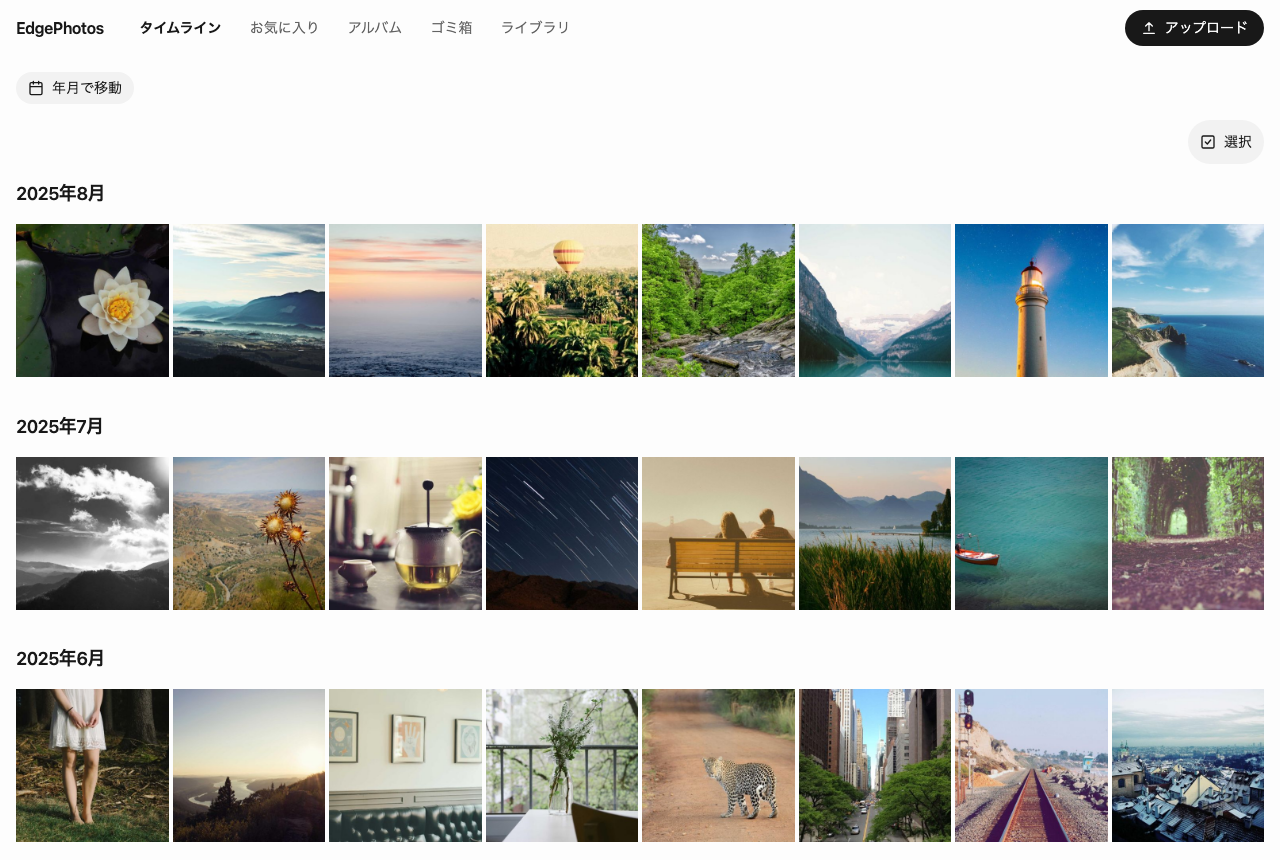
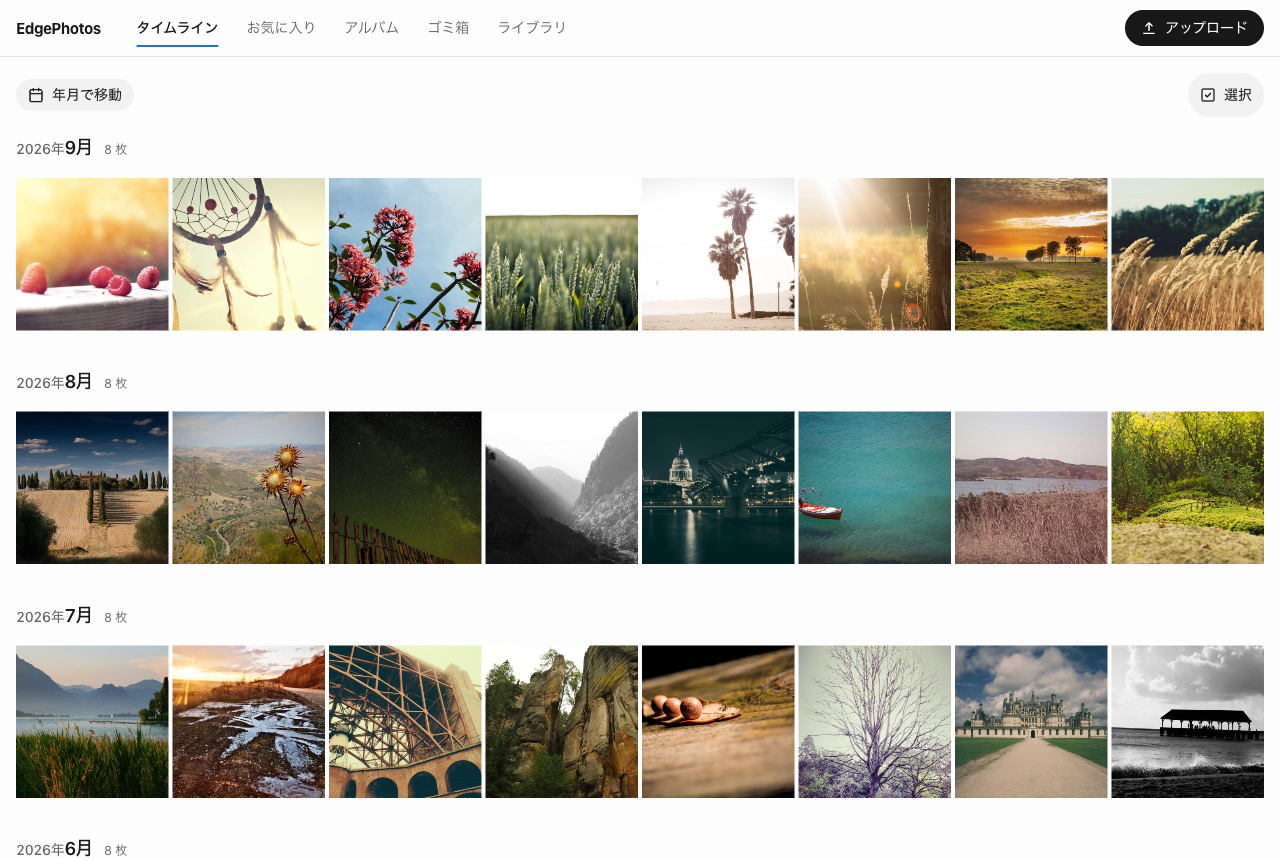
README の timeline 画像を画面の型の統一の後で撮り直す (#39)
Claude-Session: https://claude.ai/code/session_018M2aZQHtPdDHebDu5nKT86

diff --git a/docs/images/README.md b/docs/images/README.md
@@ -2,6 +2,6 @@
 
 README で使う画面画像の出どころです。
 
-`timeline.png` は、ローカル開発環境（`vite dev`、Access と presigned URL は模擬）へ 32 枚を取り込んで撮ったものです。写っているのは [Lorem Picsum](https://picsum.photos/) が Unsplash の写真として配信しているもので、実在の家族写真ではありません。人物が特定できる写真は選んでいません。
+`timeline.png` は、ローカル開発環境（`vite dev`、Access と presigned URL は模擬）の使い捨ての library へ 32 枚を取り込み、1280×860 で撮ったものです（2026-09-23、[画面の型の統一](../verification.md#画面の型の統一2026-09-23)の後）。写っているのは [Lorem Picsum](https://picsum.photos/) が Unsplash の写真として配信しているもので、実在の家族写真ではありません。人物が特定できる写真は選んでいません。
 
 取り込み前に EXIF を作り直し、撮影日時（`DateTimeOriginal`）だけを持たせています。元の EXIF に入っていた GPS などは残していません。
